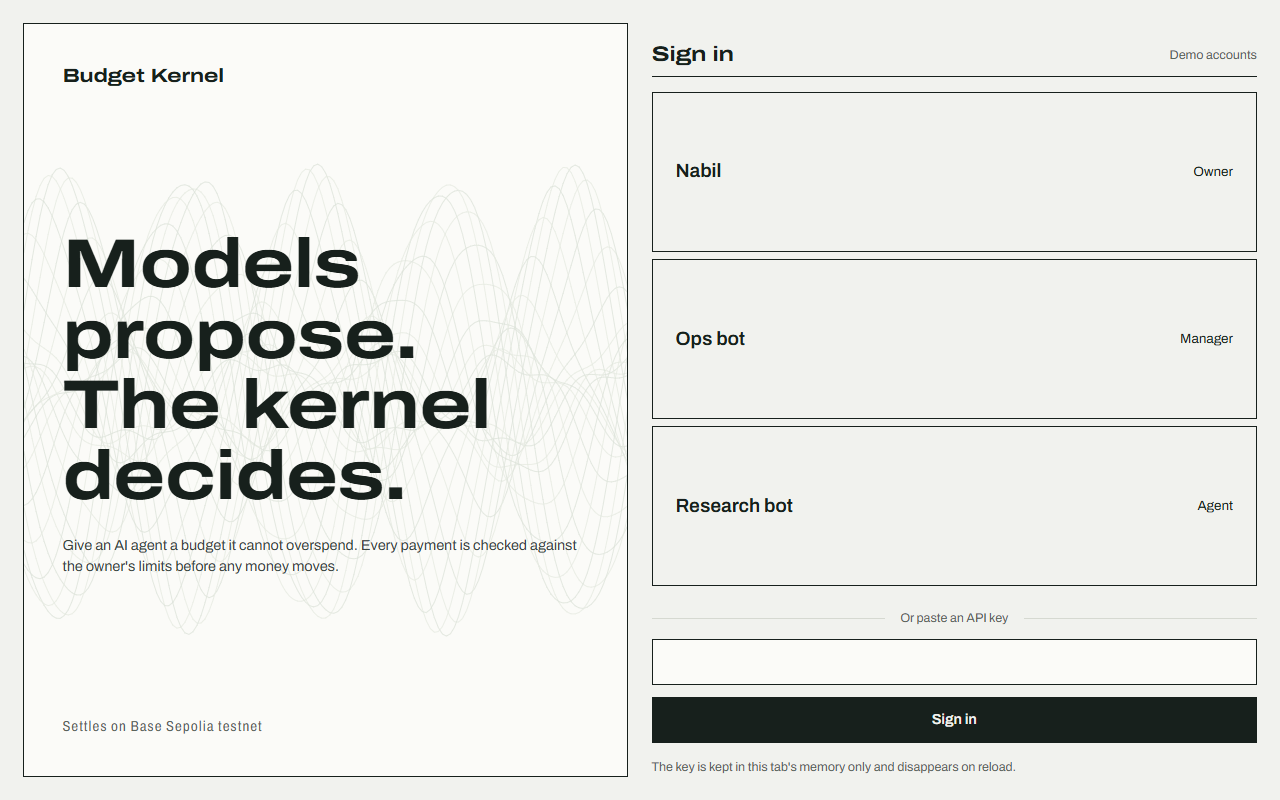
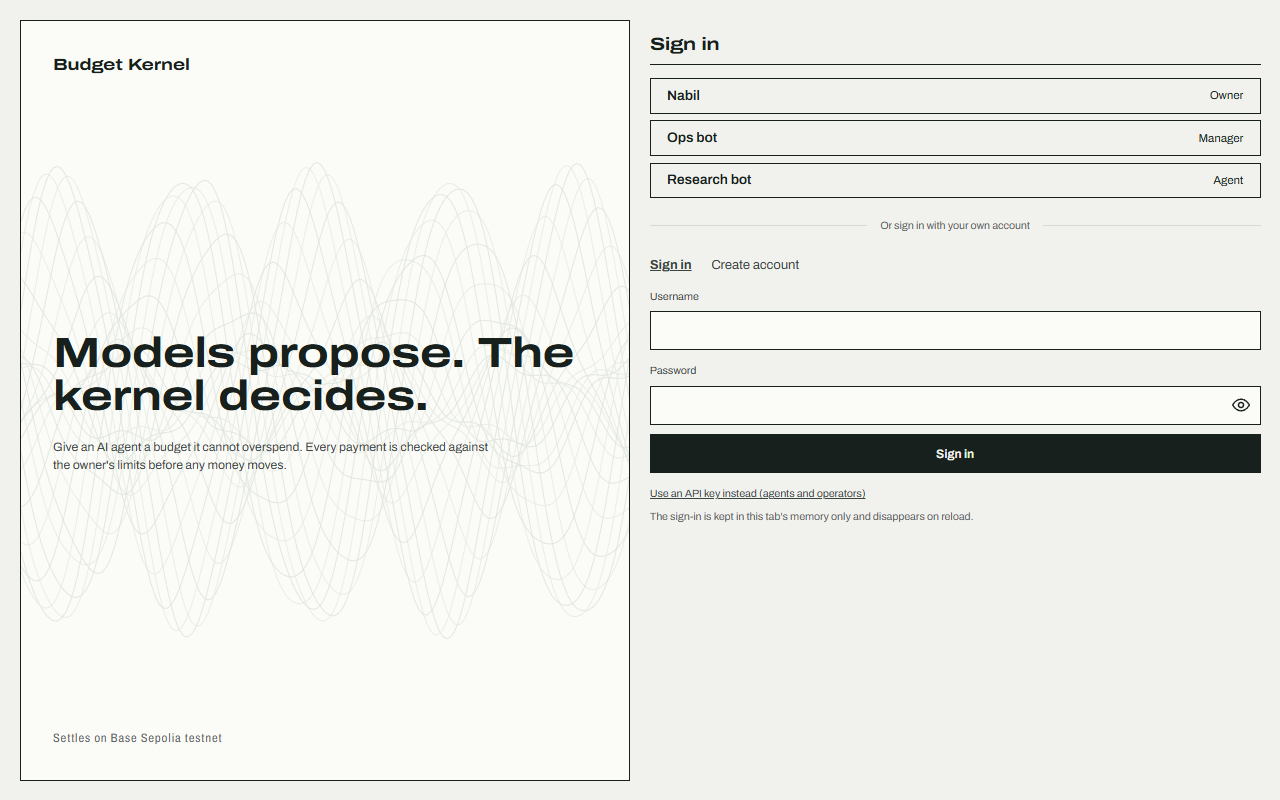
screenshots: sign-in, create account, setup (r3); capture-login script; deck note

diff --git a/docs/submission/DECK_DRAFT.md b/docs/submission/DECK_DRAFT.md
@@ -64,6 +64,8 @@ Rules only: 51/131 (38.9%), 0 unauthorized (Run 1). Cost of a whole 131-case run
 **On the slide:** `r3/04-ask-held` (proposal beside verdict), `r3/12-manager-owner-only`, `r3/10-attack-lab`; the 390 px `r3/13-phone-mandate` in the corner.
 **Say:** Real API, real keys, no mocks; sign-in in one tap, tabs match the role, refusals in plain words, model text rendered as plain text. [`CLICKTHROUGH_BK413.md`]
 
+**New screenshots (2026-10-20), `docs/submission/screenshots/r3/`:** `01-signin` (replaces the old sign-in), `01b-create-account`, `01c-setup`, `01d-setup-agent-key` (the key shown is a throwaway on a scratch schema; caption it "demo key"), `01e-setup-budget`. Use them on this slide or the technical document section 6a; the other r3 shots are unchanged.
+
 ### 10. What we do not claim (60 s)
 **On the slide:** four short lines.
 - Testnet prototype, no external audit, must not hold real funds.
